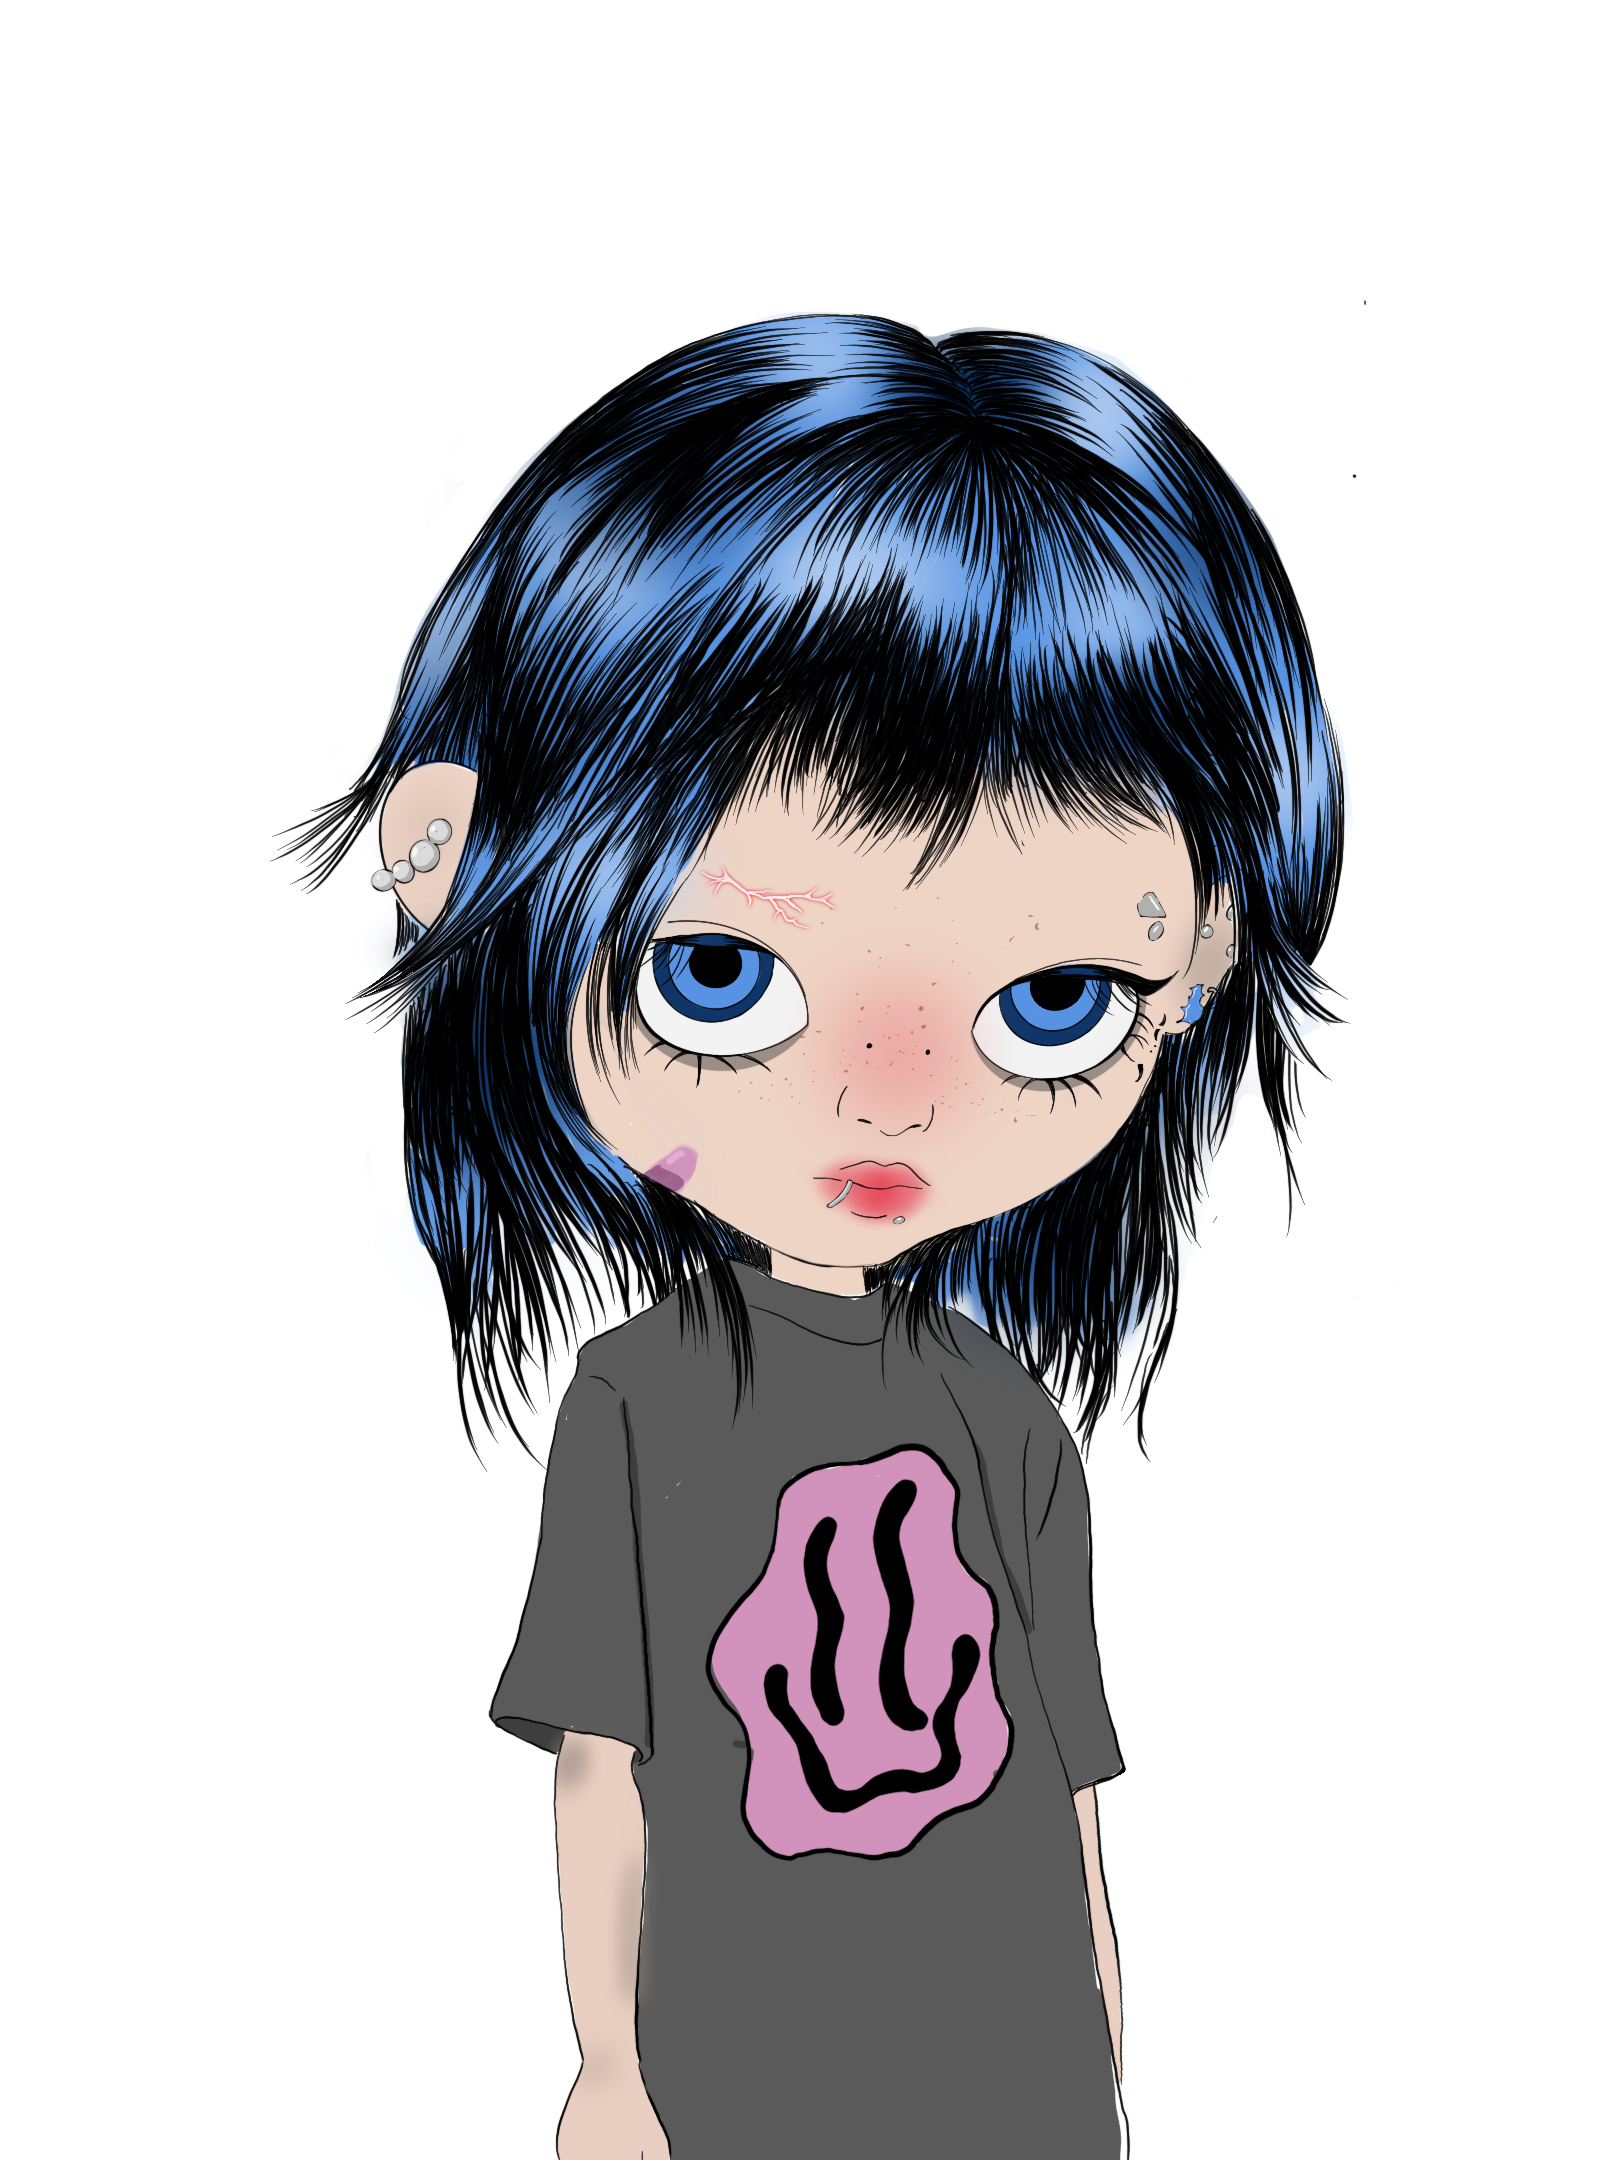
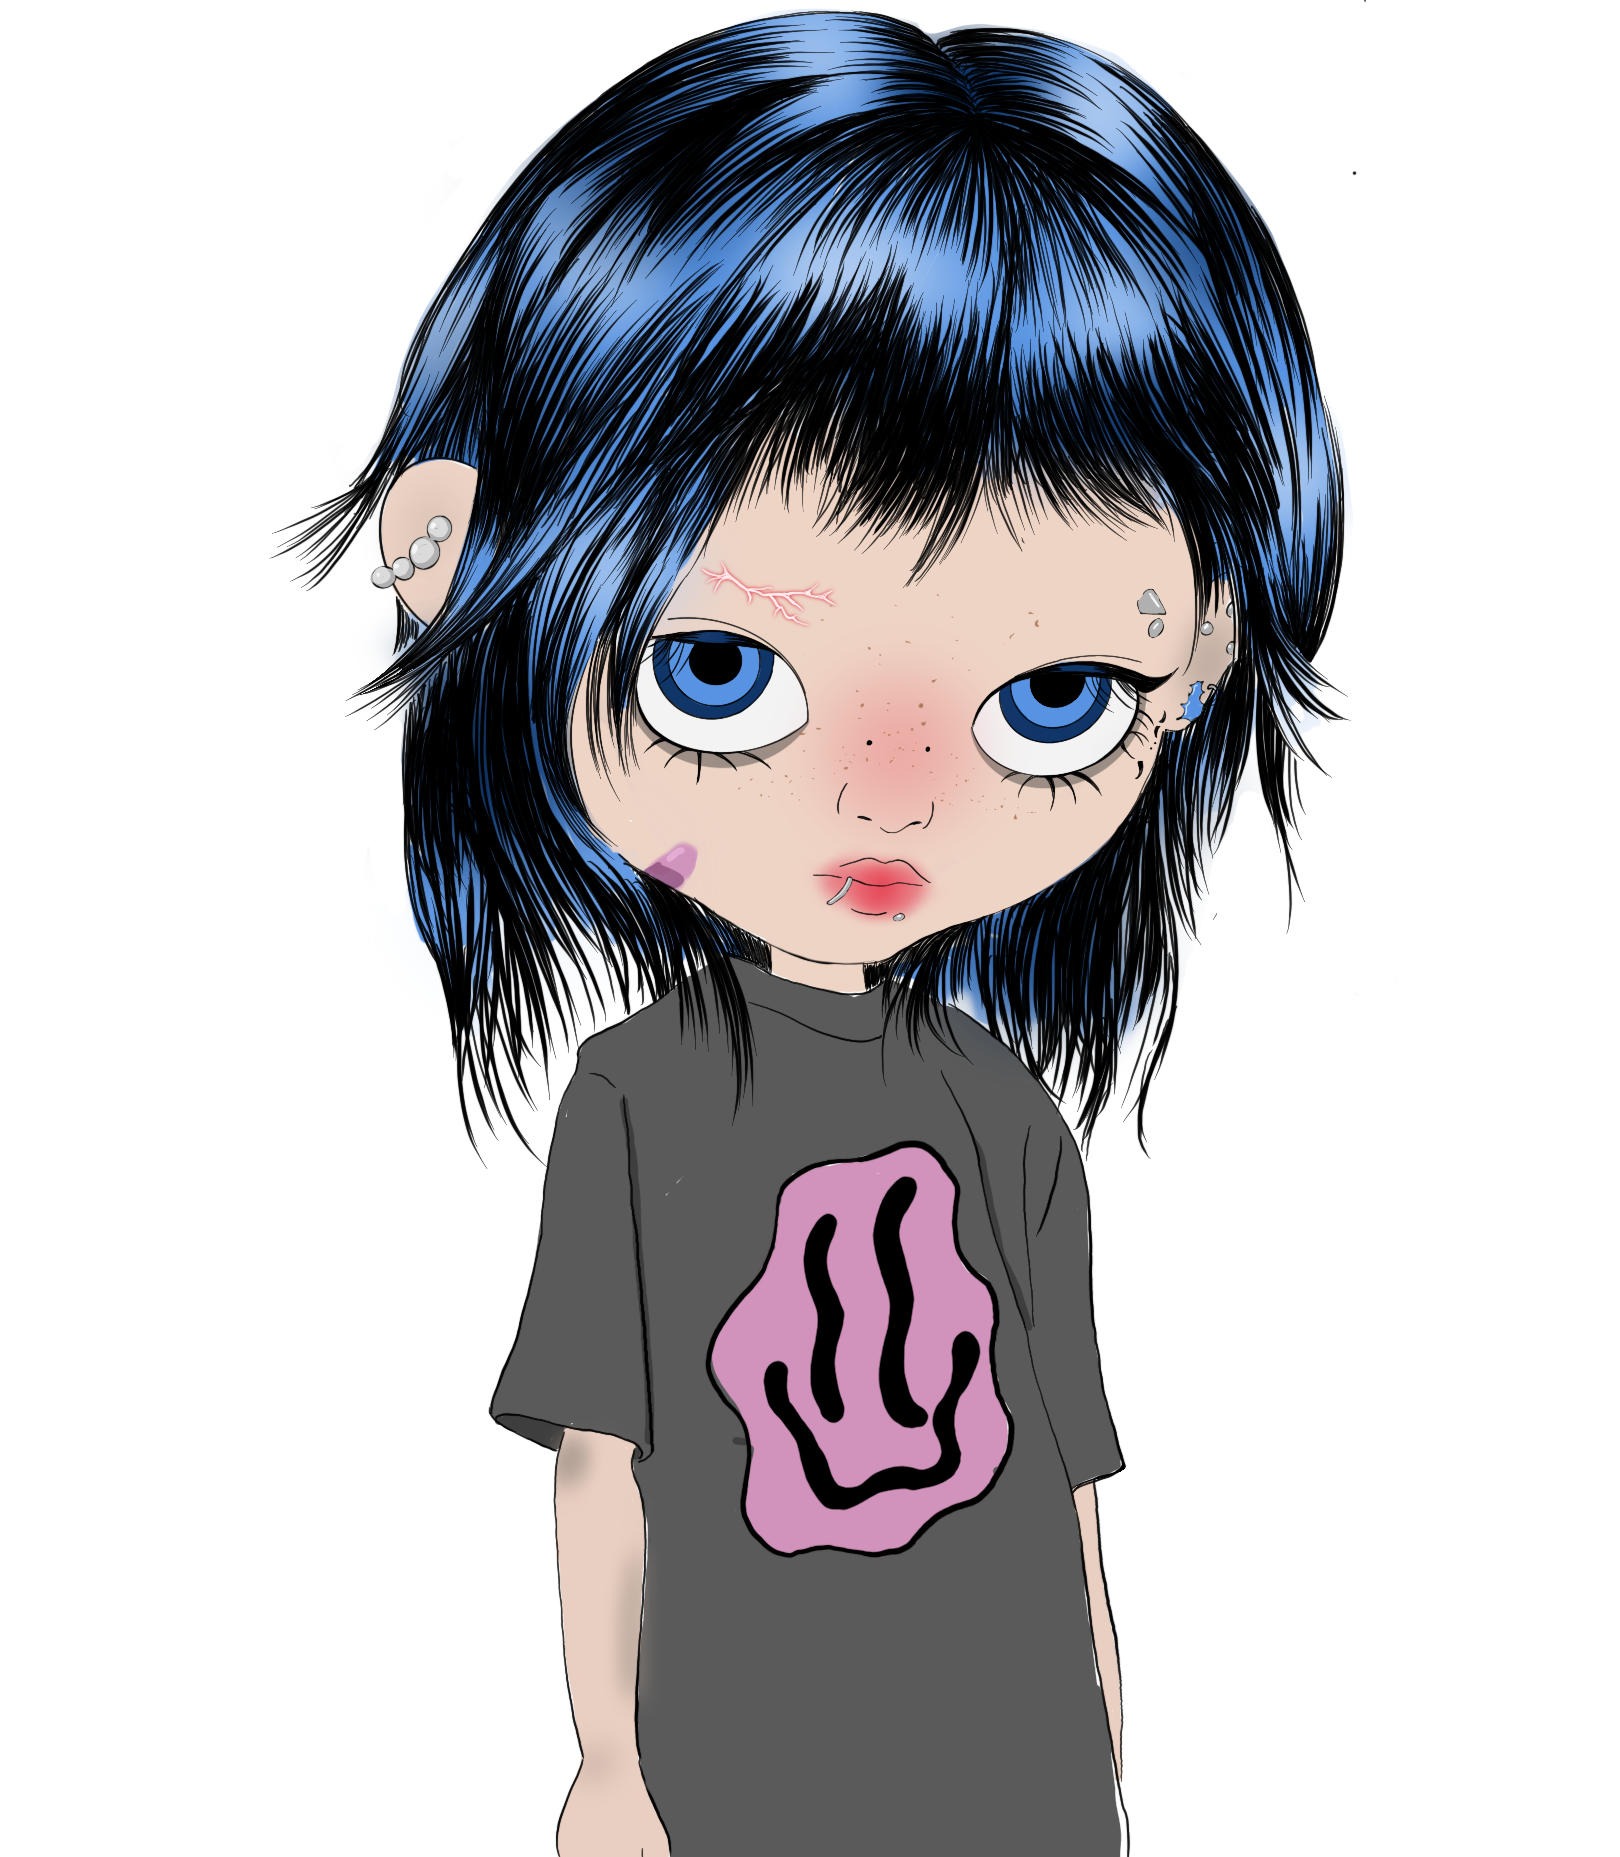
cleaning up index and making it better to view on the mobile devices. issue that within a certain px size all css is lost not sure why yet

diff --git a/smallscreen.css b/smallscreen.css
@@ -1,0 +1,194 @@
+   
+.silkscreen-regular {
+  font-family: "Silkscreen", sans-serif;
+  font-weight: 400;
+  font-style: normal;
+}
+
+
+body {
+  font-family: "Silkscreen", sans-serif;
+  background-color: black;
+} 
+
+.index_container{
+  display: flex;
+  flex-direction: column-reverse;
+  justify-content: left; /* Centers horizontally */
+  align-items: center; /* Centers vertically */
+  height: 100vh; /* Full viewport height */
+}
+
+.mascot_image{
+  width:110%;
+  padding-top: 0;
+  margin-top: 0;
+
+  /* background-color: red; */
+}
+
+.logo_image{
+  width: 50%;
+  height:fit-content;
+  padding-top: 30%;
+  padding-bottom: 10%;
+  margin-top: 0;
+  padding-left: 7%;   
+  
+  /* background-color: aqua; */
+  /* ANIMATION ON LOAD */
+  opacity: 0;
+  animation: fadeIn 2s forwards;   
+} @keyframes fadeIn {
+  to {
+    opacity: 1;
+  }
+}
+
+
+    /* not reviewed / cleaned */
+
+
+    
+#menuToggle {
+  display: block;
+  /* You can also use absolute here if you want to stay on the top */
+  position: fixed;
+  top: 50px;
+  right: 50px;
+  
+  z-index: 1;
+  
+  -webkit-user-select: none;
+  user-select: none;
+}
+
+#menuToggle a
+{
+  text-decoration: none;
+  color: #232323;
+  
+  transition: color 0.3s ease;
+}
+
+#menuToggle a:hover
+{
+  color: tomato;
+}
+
+#menuToggle input {
+  display: block;
+  width: 40px;
+  height: 32px;
+  position: absolute;
+  top: -7px;
+  left: -5px;
+  
+  cursor: pointer;
+  
+  opacity: 0; /* hide this */
+  z-index: 2; /* and place it over the hamburger */
+  
+  -webkit-touch-callout: none;
+}
+
+/*
+ * Just a quick hamburger
+ */
+#menuToggle span {
+  display: block;
+  width: 33px;
+  height: 4px;
+  margin-bottom: 5px;
+  position: relative;
+  
+  background: #8EB9FF;
+  border-radius: 3px;
+  
+  z-index: 1;
+  
+  transform-origin: 4px 0px;
+  
+  transition: transform 0.5s cubic-bezier(0.77,0.2,0.05,1.0),
+              background 0.5s cubic-bezier(0.77,0.2,0.05,1.0),
+              opacity 0.55s ease;
+}
+
+#menuToggle span:first-child {
+  transform-origin: 0% 0%;
+}
+
+#menuToggle span:nth-last-child(2) {
+  transform-origin: 0% 100%;
+}
+
+/* 
+ * Transform all the slices of hamburger
+ * into a crossmark.
+ */
+#menuToggle input:checked ~ span {
+  opacity: 1;
+  transform: rotate(45deg) translate(-2px, -1px);
+  background: #232323;
+}
+
+/*
+ * But let's hide the middle one.
+ */
+#menuToggle input:checked ~ span:nth-last-child(3) {
+  opacity: 0;
+  transform: rotate(0deg) scale(0.2, 0.2);
+}
+
+/*
+ * Ohyeah and the last one should go the other direction
+ */
+#menuToggle input:checked ~ span:nth-last-child(2) {
+  opacity: 1;
+  transform: rotate(-45deg) translate(0, -1px);
+}
+
+/*
+ * Make this absolute positioned
+ * at the top left of the screen
+ */
+#menu {
+  font-family: silkscreen;
+  position: absolute;
+  max-width: 400px;
+  width: 100vw;
+  height: 100vh;
+  max-height: 100vh;
+  margin: -77px 0 0 0;
+  padding: 50px;
+  padding-top: 125px;
+  right: -100px;
+  
+  box-sizing: border-box;
+  overflow-y: auto;
+  background: #8EB9FF;
+  list-style-type: none;
+  
+  -webkit-font-smoothing: antialiased;
+  /* to stop flickering of text in safari */
+  
+  transform-origin: 0% 0%;
+  transform: translate(100%, 0);
+  
+  transition: transform 0.5s cubic-bezier(0.77,0.2,0.05,1.0);
+}
+
+#menu li{
+  padding: 10px 0;
+  font-size: 22px;
+}
+
+#menu li label{
+  cursor: pointer;
+}
+
+/* fade it in from the right */
+#menuToggle input:checked ~ ul {
+  transform: none;
+  opacity: 1;
+}

diff --git a/widescreen.css b/widescreen.css
@@ -1,69 +1,51 @@
    
-   .silkscreen-regular {
+.silkscreen-regular {
   font-family: "Silkscreen", sans-serif;
   font-weight: 400;
   font-style: normal;
 }
 
-.silkscreen-bold {
+
+body {
   font-family: "Silkscreen", sans-serif;
-  font-weight: 700;
-  font-style: normal;
+  background-color: black;
+} 
+
+.index_container{
+  display: flex;
+  flex-direction: row;
+  justify-content: left; /* Centers horizontally */
+  align-items: center; /* Centers vertically */
+  height: 100vh; /* Full viewport height */
 }
 
+.mascot_image{
+  width: auto;
+  height: 100vh;
+}
 
-   body {
+.logo_image{
+  width: 30%;
+  height:fit-content;
+  padding-left: 7%;   
+  
+  /* ANIMATION ON LOAD */
+  opacity: 0;
+  animation: fadeIn 2s forwards;   
+} @keyframes fadeIn {
+  to {
+    opacity: 1;
+  }
+}
 
-    
-      font-family: "Silkscreen", sans-serif;
+/* @media only screen and (min-width: 768px) {
 
-        /* font-family: sans-serif; */
-      background-color: black;
-    } 
+} */
 
+    /* not reviewed / cleaned */
 
 
-    .mascot{
 
-        display: flex;
-        justify-content: center;
-        align-items: center;
-        
-        width:50%;
-        height:100vh;
-        overflow:auto;
-        float:left;
-    }
-
-    .mascot_image{
-        float:left;
-        height: 100%;
-    }
-
-    .logo{
-
-        display: flex;
-        justify-content: left;
-        align-items: center;
-
-        width:50%;
-        height:100vh;
-        overflow:auto;
-        float:right;
-    }
-
-    .logo_image{
-        /* float:right; */
-      opacity: 0;
-      animation: fadeIn 2s forwards;
-
-      padding-left: 100px;
-      width: 40%;
-    }  @keyframes fadeIn {
-            to {
-                opacity: 1;
-            }
-        }
     
     .about_blurb{
       opacity: 0;
@@ -270,7 +252,6 @@
   height: 72vh;
   text-align: center;
   padding-top: 230px;
-
 }
 
 .social_icon{

diff --git a/index.html b/index.html
@@ -3,7 +3,8 @@
 <head>
   <meta charset="UTF-8">
   <meta name="viewport" content="width=device-width, initial-scale=1.0">
-  <link rel="stylesheet" href="style.css">
+  <link rel="stylesheet" media="screen and (min-width: 900px)" href="widescreen.css">
+  <link rel="stylesheet" media="screen and (max-width: 600px)" href="smallscreen.css">
 
   <link rel="preconnect" href="https://fonts.googleapis.com">
   <link rel="preconnect" href="https://fonts.gstatic.com" crossorigin>
@@ -74,12 +75,17 @@
       </ul>
   </div> <!-- hamburger menu end-->
 
-  <div class="mascot">
+  <div class="index_container">
     <image class="mascot_image" src="assets/header_mascot.png"></image>
-  </div>
-  <div class="logo">
     <image class="logo_image" src="assets/logo_image.png"></image>
   </div>
+   
+  <!-- <div class="mascot">
+        <image class="mascot_image" src="assets/header_mascot.png"></image>
+  </div> -->
+  <!-- <div class="logo">
+    <image class="logo_image" src="assets/logo_image.png"></image>
+  </div> -->
 
 
     <!-- <section id="hero">

diff --git a/about.html b/about.html
@@ -4,7 +4,8 @@
 <head>
   <meta charset="UTF-8">
   <meta name="viewport" content="width=device-width, initial-scale=1.0">
-  <link rel="stylesheet" href="style.css">
+  <link rel="stylesheet" media="screen and (min-width: 600px)" href="widescreen.css">
+  <link rel="stylesheet" media="screen and (min-width: 768px)" href="smallscreen.css">
 
   <link rel="preconnect" href="https://fonts.googleapis.com">
   <link rel="preconnect" href="https://fonts.gstatic.com" crossorigin>
